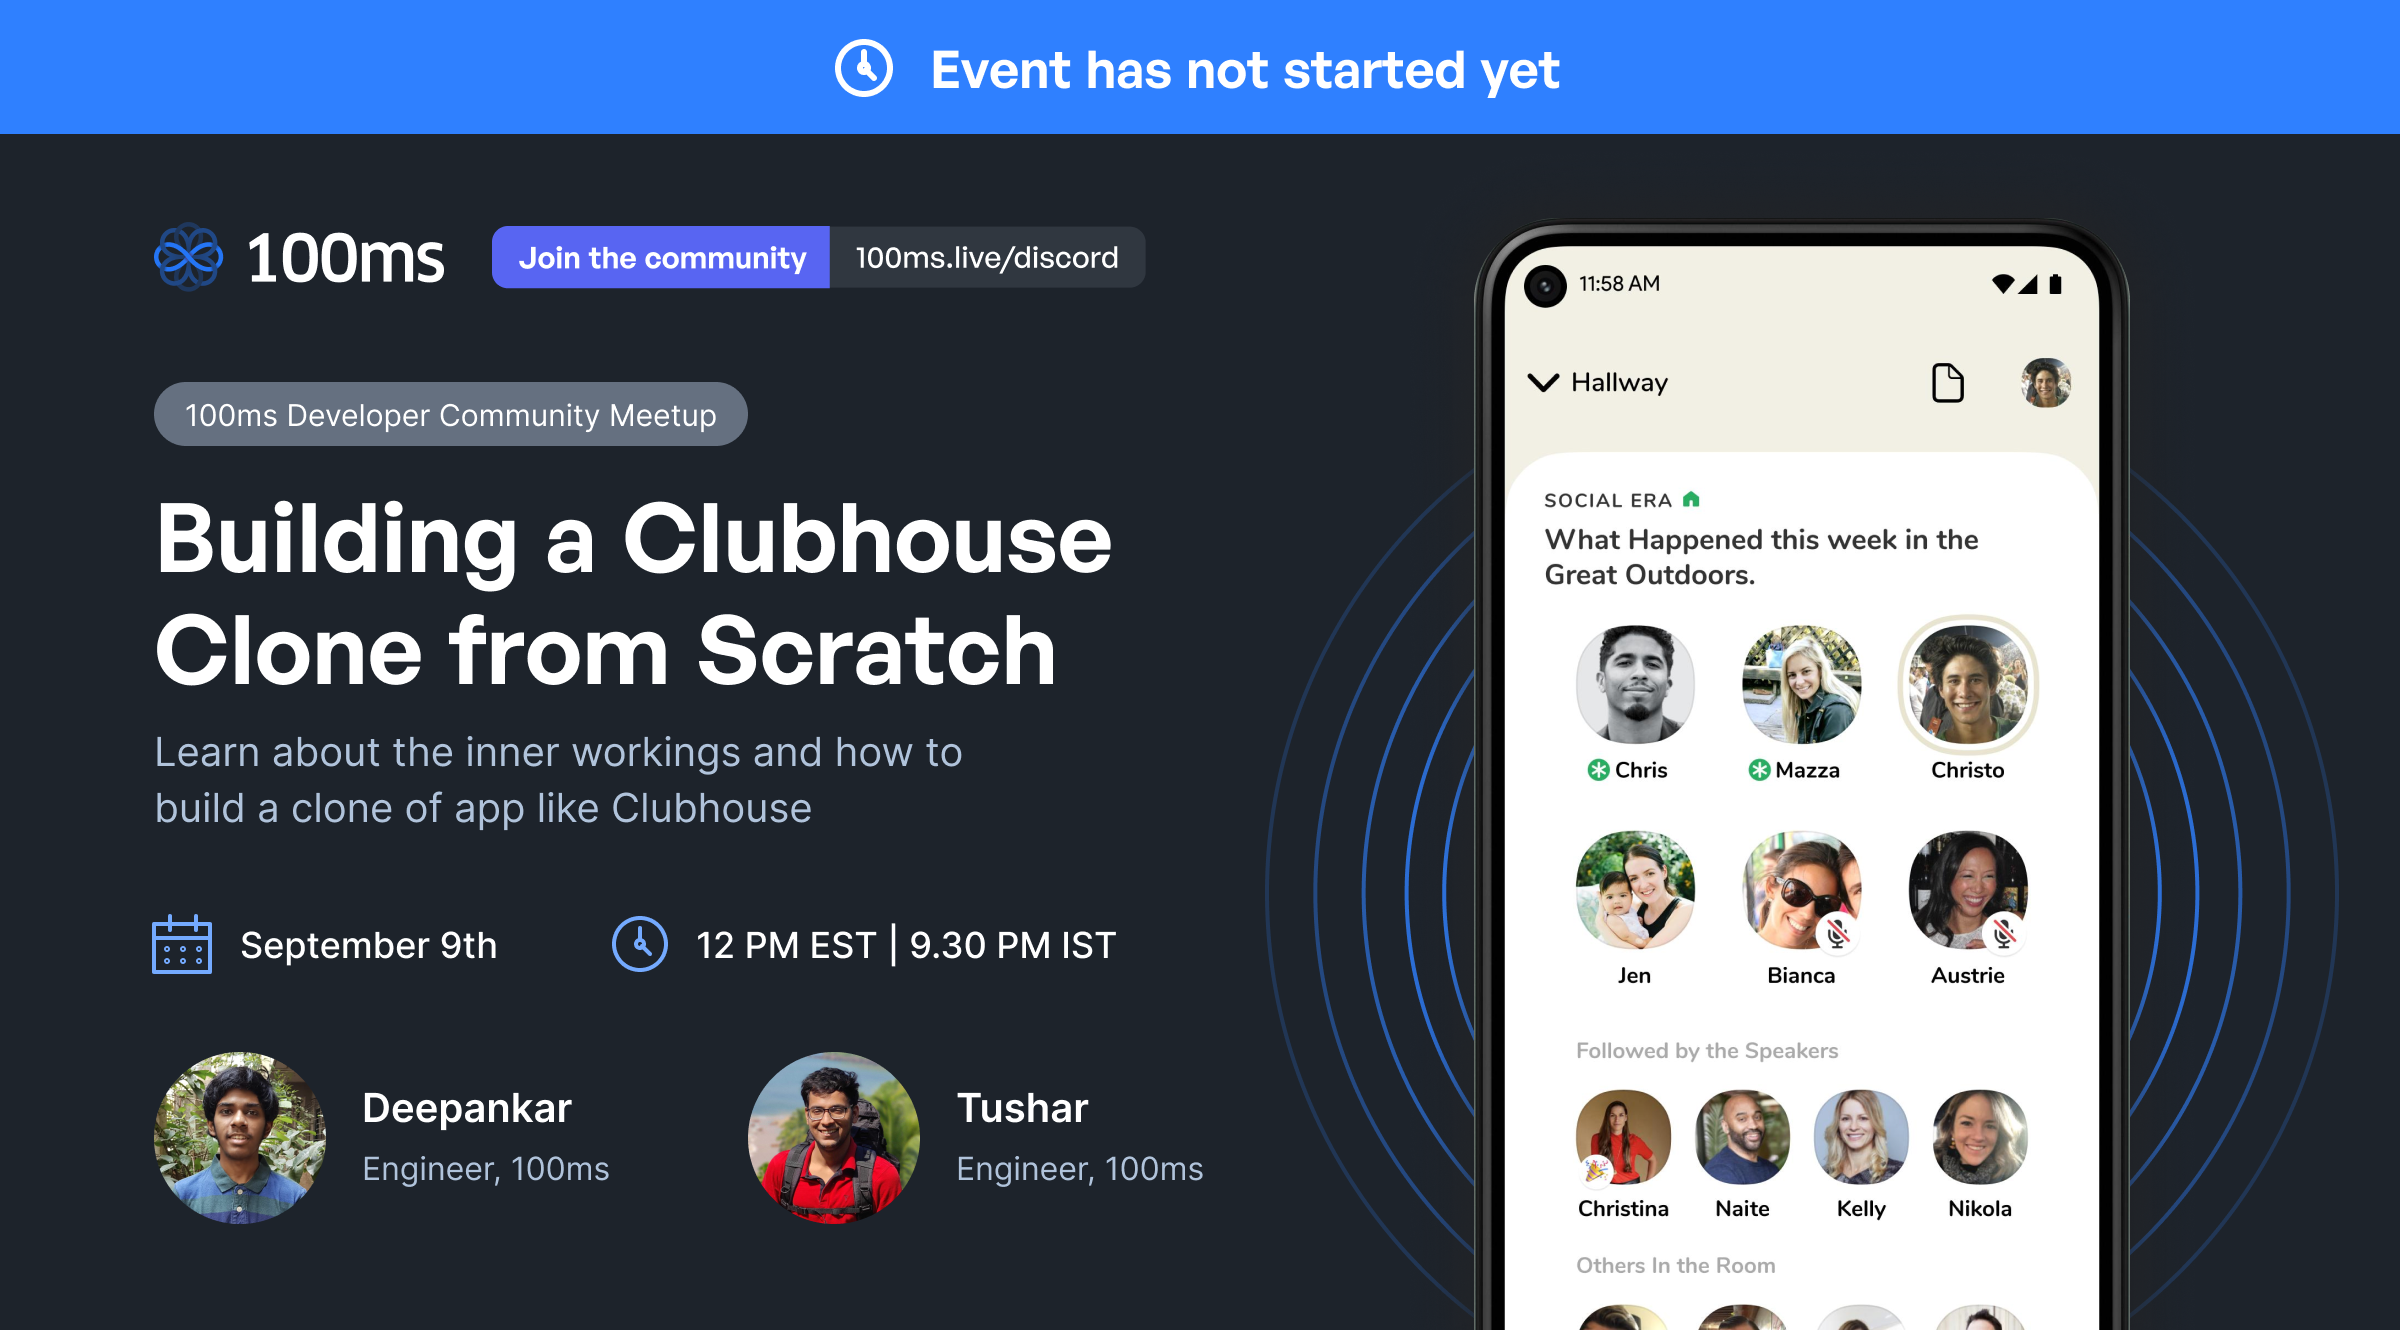
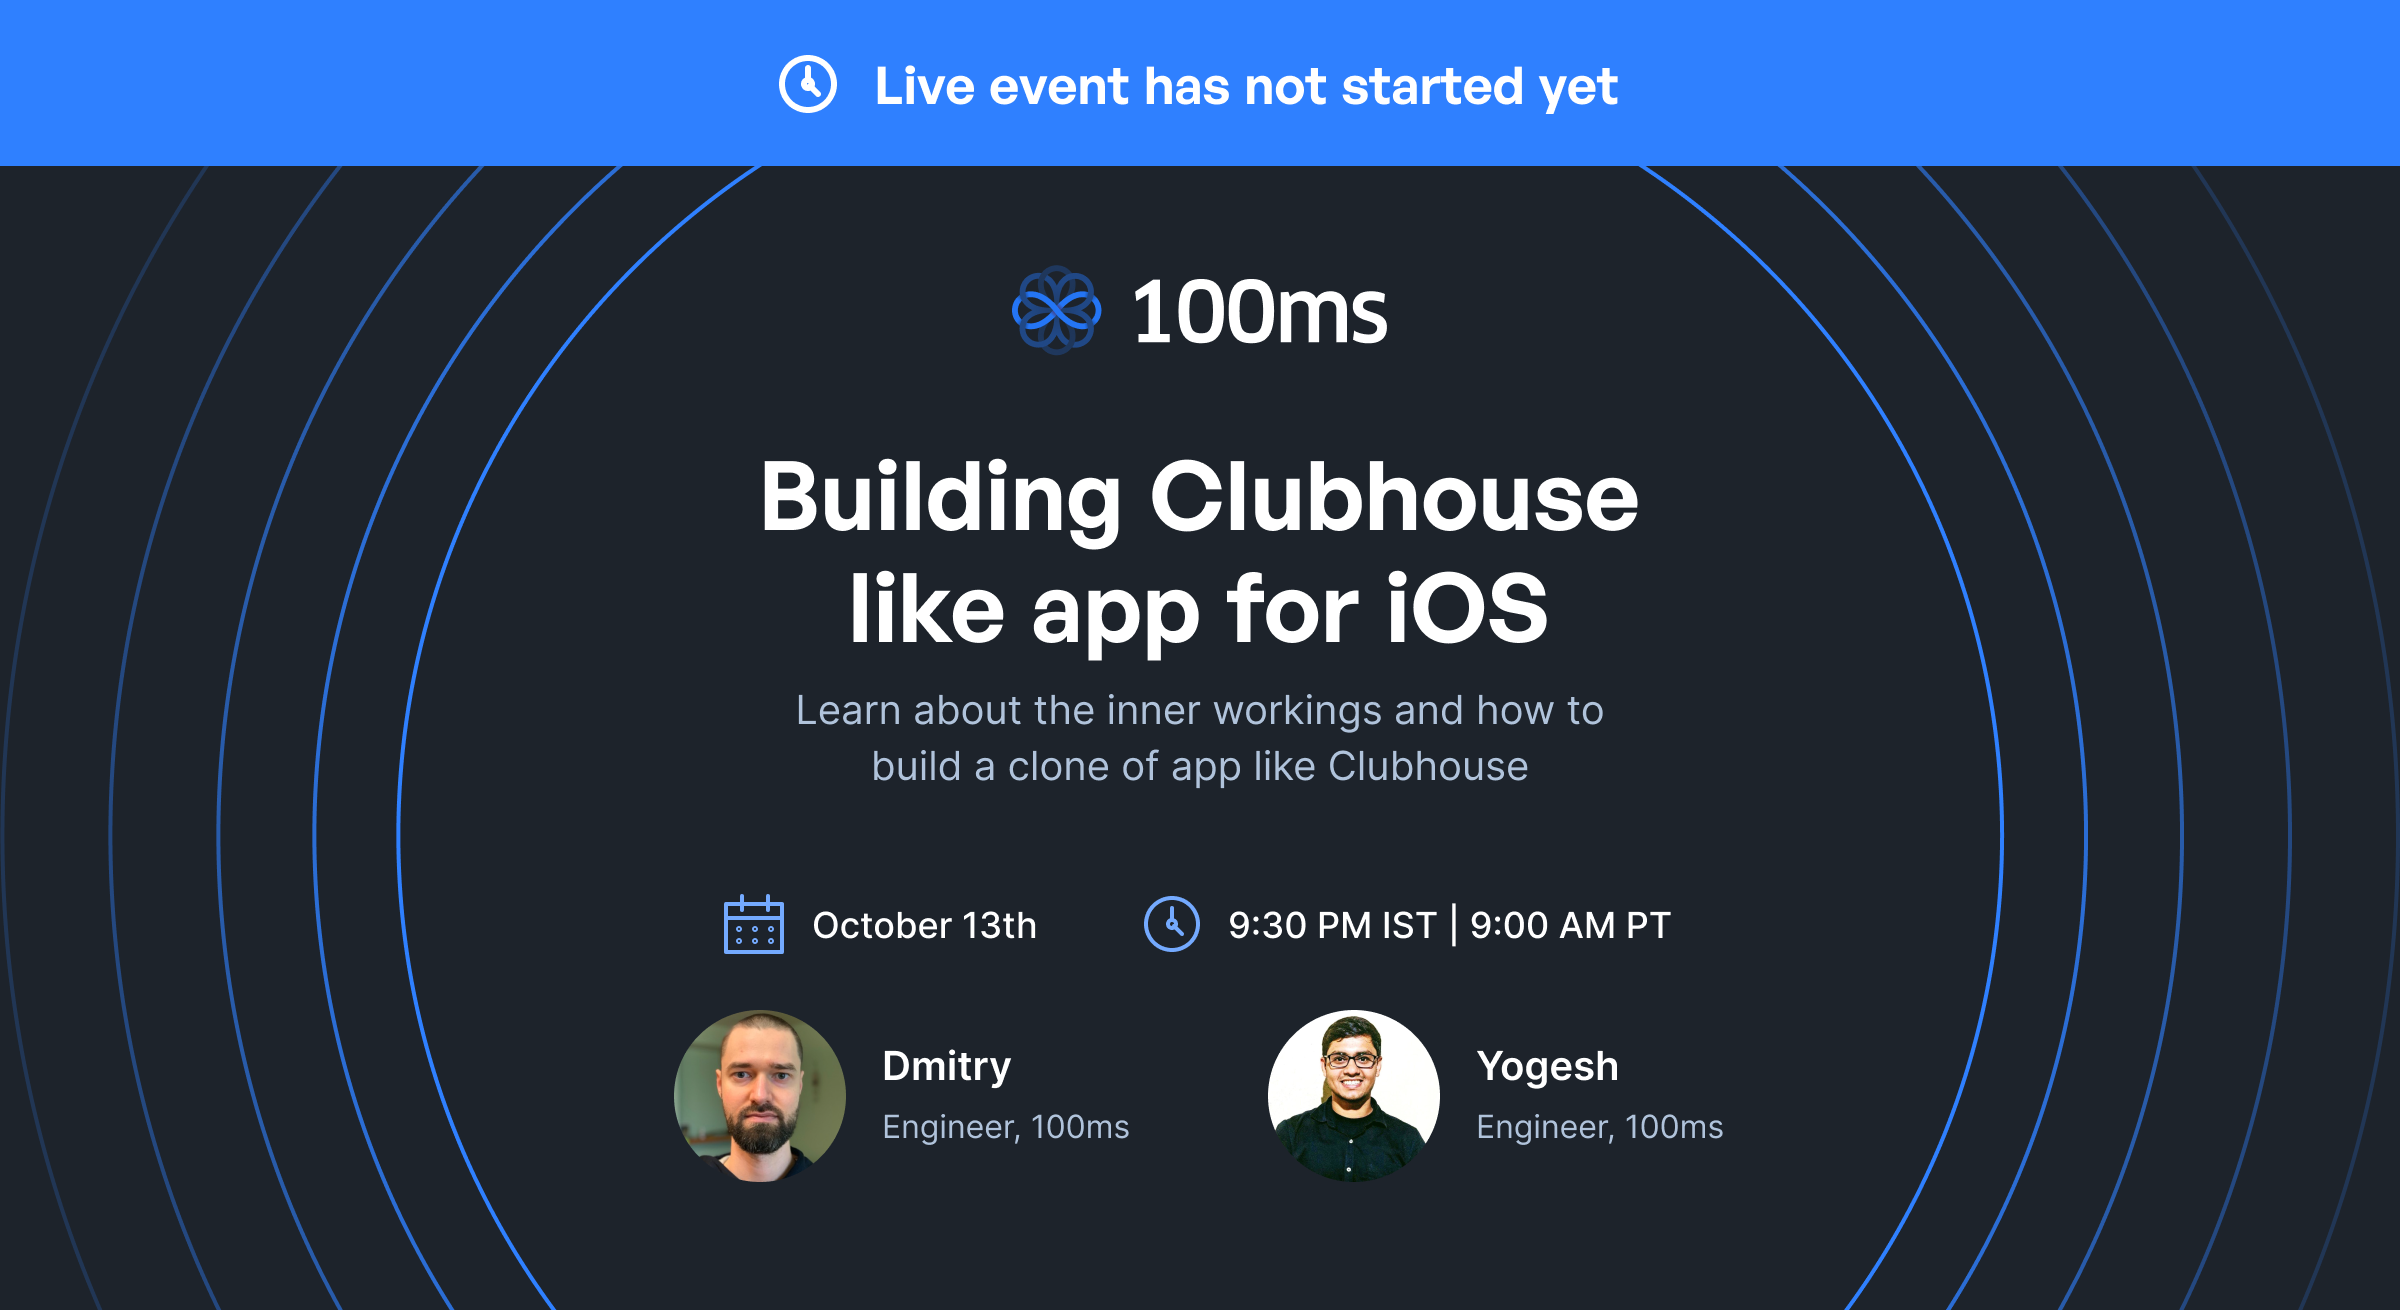
chore: change clubhouse webinar image

diff --git a/src/views/components/gridView.jsx b/src/views/components/gridView.jsx
@@ -13,7 +13,7 @@ const MAX_TILES_FOR_MOBILE = 4;
 /**
  * this is for showing webinar etc. related image if required on certain meeting urls
  */
-const EVENT_ROOM_IDS = ["homey-vermilion-beetle"];
+const EVENT_ROOM_IDS = ["gummy-viridian-bongo",'crabby-vermilion-akita'];
 
 // The center of the screen shows bigger tiles
 export const GridCenterView = ({
@@ -43,7 +43,7 @@ export const GridCenterView = ({
         />
       ) : EVENT_ROOM_IDS.some(id => window.location.href.includes(id)) ? (
         <div className="h-full w-full grid place-items-center p-5">
-          <a href="https://100ms.live" target="_blank" rel="noreferrer">
+          <a href="https://community.100ms.live/workshop-building-clubhouse-for-ios" target="_blank" rel="noreferrer">
             <img
               className="w-full rounded-lg shadow-lg"
               alt=""

diff --git a/src/views/mainGridView.jsx b/src/views/mainGridView.jsx
@@ -18,7 +18,7 @@ export const MainGridView = ({
     sidepaneRoles.includes(peer.roleName)
   );
   // if there is only one type of peers to show
-  const hideSidePane = sidebarPeers.length === 0 || centerPeers.length === 0;
+  const hideSidePane = peers.length > 1 && (sidebarPeers.length === 0 || centerPeers.length === 0);
 
   return (
     <React.Fragment>
